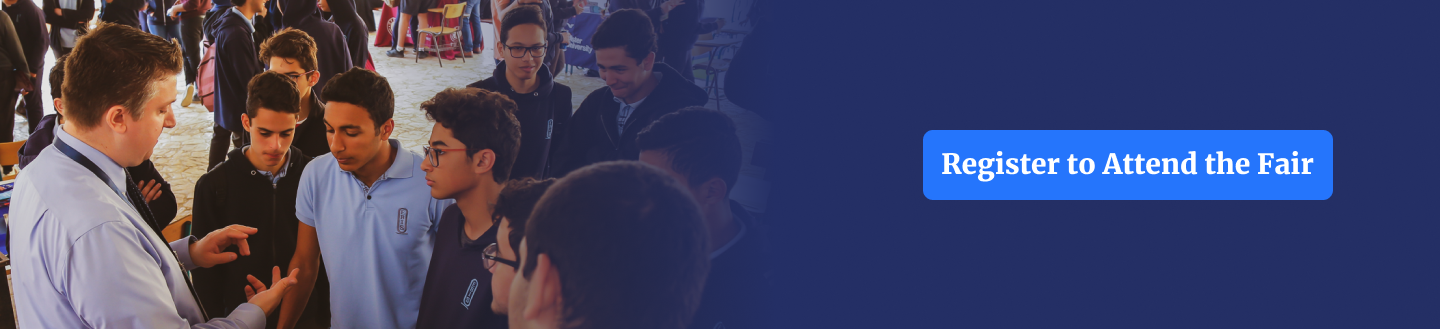
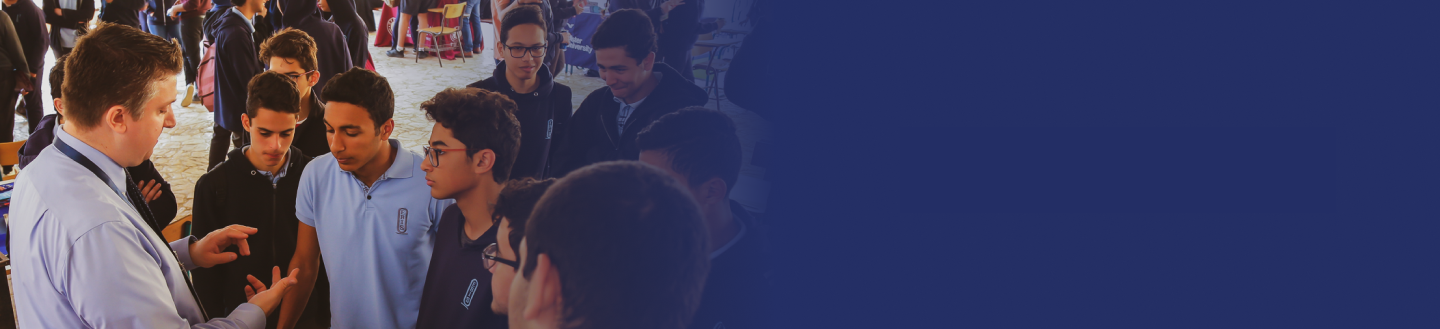
Signed-off-by: islam nasser <eslam.abdelnasser.abdalla@gmail.com>

Changed region(s): [[0.625, 0.3951, 0.9375, 0.6079]]

diff --git a/css/style.css b/css/style.css
@@ -7270,11 +7270,15 @@ input[type="search"]:focus {
     width: 80%;
 
 }
-.bannar-blue{
-    background: linear-gradient(270deg, #242F65 0%, rgba(36, 47, 101, 0.00) 100%), url(../img/blue-bannar.png),  #242F65;
+
+.bannar-blue {
+    background: linear-gradient(270deg, #242F65 0%, rgba(36, 47, 101, 0.00) 100%), url(../img/blue-bannar.png), #242F65;
     padding: 130px 0;
+    background-repeat: no-repeat;
+
 }
-.bannar-blue .btn-blue{
+
+.bannar-blue .btn-blue {
     border-radius: 10px;
     font-size: 28px;
     font-family: "Merriweather";
@@ -7286,11 +7290,12 @@ input[type="search"]:focus {
 
 }
 
-.bannar-green{
-   height: 330px;
-    background: linear-gradient(270deg, #079C67 0%, rgba(7, 156, 103, 0.00) 100%), url(../img/green-nannar.png) #079C67;
-    background-repeat: no-repeat;
+.bannar-green {
+    height: 330px;
+    background: linear-gradient(45deg, #079C67 0%, rgba(7, 156, 103, 0.00) 70%), url(../img/green-nannar.png) #079C67;
+    background-repeat: round;
 }
+
 .bannar-green .btn-green {
     border-radius: 10px;
     font-size: 28px;
@@ -7299,16 +7304,18 @@ input[type="search"]:focus {
     font-weight: 900;
     height: 70px;
     padding: 10px 30px;
-    width: max-content;    background: #33CA94;
+    width: max-content;
+    background: #33CA94;
 
 
 }
-.bannar-green p{
+
+.bannar-green p {
     color: #FFF;
-font-size: 24px;
-font-family: "Poppins";
-font-style: normal;
-font-weight: 400;
-line-height: 35px;
-margin-bottom: 20px;
+    font-size: 24px;
+    font-family: "Poppins";
+    font-style: normal;
+    font-weight: 400;
+    line-height: 35px;
+    margin-bottom: 20px;
 }
